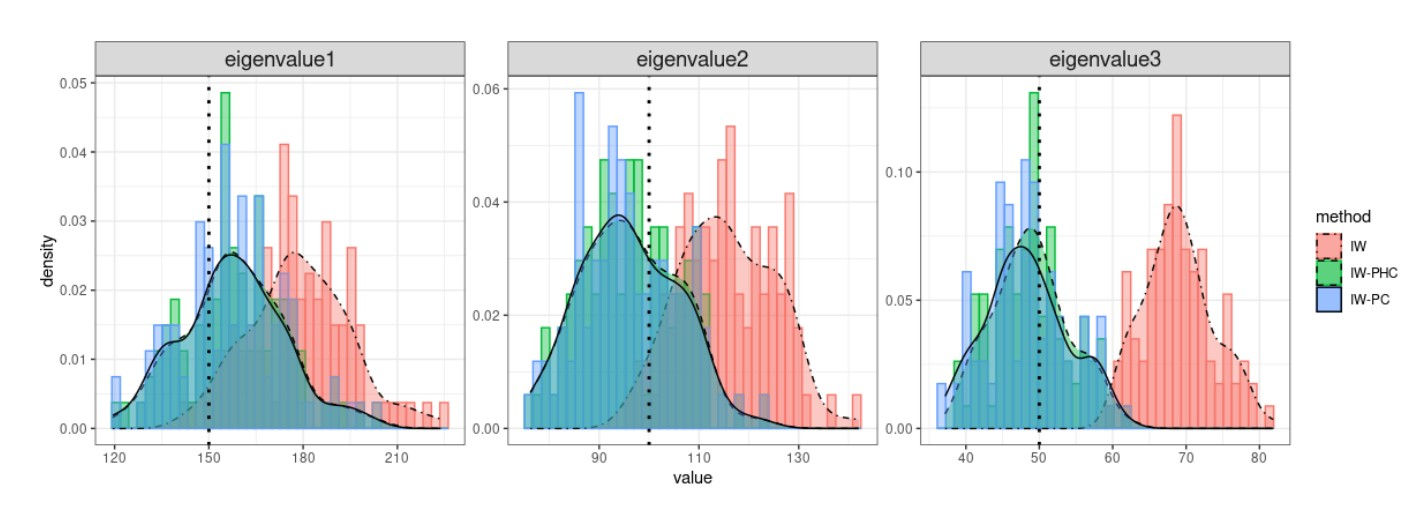
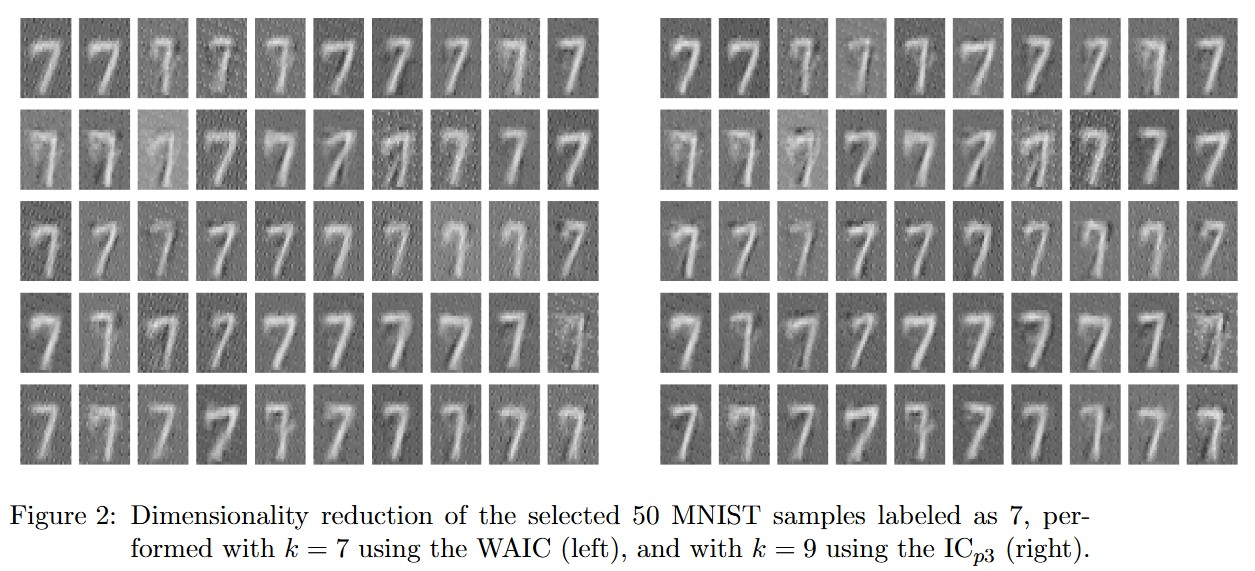
Update new papers

diff --git a/content/publication/preprint_3/index.md b/content/publication/preprint_3/index.md
@@ -1,9 +1,9 @@
 ---
-title: "Bayesian analysis of spiked covariance models: correcting eigenvalue bias and determining the number of spikes (working paper)"
+title: "Eigenstructure Inference for High-dimensional Covariance with Generalized Shrinkage Inverse-Wishart Prior (working paper)"
 authors:
-- Kwangmin Lee
-- adminc
 - Seongmin Kim
+- Kwangmin Lee
+- admin
 - Jaeyong Lee
 
 date: "2025-12-28T00:00:00Z"
@@ -21,7 +21,7 @@ publication_types: ["article"]
 publication: ""
 publication_short: ""
 
-abstract: "We study Bayesian inference in the spiked covariance model, where a small number of spiked eigenvalues dominate the spectrum. Our goal is to infer the spiked eigenvalues, their corresponding eigenvectors, and the number of spikes, providing a Bayesian solution to principal component analysis with uncertainty quantification. We place an inverse-Wishart prior on the covariance matrix to derive posterior distributions for the spiked eigenvalues and eigenvectors. Although posterior sampling is computationally efficient due to conjugacy, a bias may exist in the posterior eigenvalue estimates under high-dimensional settings. To address this, we propose two bias correction strategies: (i) a hyperparameter adjustment method, and (ii) a post-hoc multiplicative correction. For inferring the number of spikes, we develop a BIC-type approximation to the marginal likelihood and prove posterior consistency in the high-dimensional regime p > n. Furthermore, we establish concentration inequalities and posterior contraction rates for the leading eigenstructure, demonstrating minimax optimality for the spiked eigenvector in the single-spike case. Simulation studies and a real data application show that our method performs better than existing approaches in providing accurate quantification of uncertainty for both eigenstructure estimation and estimation of the number of spikes."
+abstract: "In multivariate statistics, estimating the covariance matrix is essential for understanding the dependence structure among variables. In high-dimensional settings, where the number of covariates increases with the sample size, it is well known that the sample covariance matrix becomes inconsistent. In particular, the largest sample eigenvalue tends to be substantially larger than the corresponding population eigenvalue, while the smallest sample eigenvalue tends to be substantially smaller than its population counterpart. This phenomenon has been widely recognized in the literature and is often described as the overdispersion of sample eigenvalues. The inverse-Wishart prior, a standard choice for Bayesian covariance estimation, also suffers from overdispersion in posterior eigenvalues. To address this issue in high-dimensional settings, the shrinkage inverse-Wishart (SIW) prior has recently been proposed. Despite its conceptual appeal and empirical success, however, the asymptotic justification for the SIW prior remains limited. In this paper, we propose a generalized shrinkage inverse-Wishart (gSIW) prior for high-dimensional covariance modeling. By extending the SIW framework, the gSIW prior accommodates a broader class of prior distributions and enables the derivation of theoretical properties under specific parameter choices. In particular, under the spiked covariance assumption, we establish the asymptotic behavior of the posterior distribution for both eigenvalues and eigenvectors by explicitly evaluating posterior expectations for two parameter settings. This explicit analysis provides insights into the large-sample behavior of the posterior that are difficult to obtain through general posterior asymptotic theory. Finally, simulation studies demonstrate that the proposed prior yields accurate estimation of the eigenstructure, particularly for spiked eigenvalues, while also providing competitive uncertainty quantification across a range of high-dimensional settings. For spiked eigenvectors, its performance is generally comparable to that of competing approaches, including the sample covariance estimator."
 
 # Summary. An optional shortened abstract.
 # summary: Lorem ipsum dolor sit amet, consectetur adipiscing elit. Duis posuere tellus ac convallis placerat. Proin tincidunt magna sed ex sollicitudin condimentum.
@@ -34,8 +34,8 @@ featured: false
 links:
 # - name: Custom Link
 #   url: http://example.org
-url_pdf: 'http://arxiv.org/abs/2412.10753'
-# url_code: 'https://github.com/swpark0413/besiw'
+url_pdf: 'https://arxiv.org/abs/2505.20668'
+url_code: 'https://github.com/swpark0413/besiw'
 url_dataset: ''
 url_poster: ''
 url_project: ''